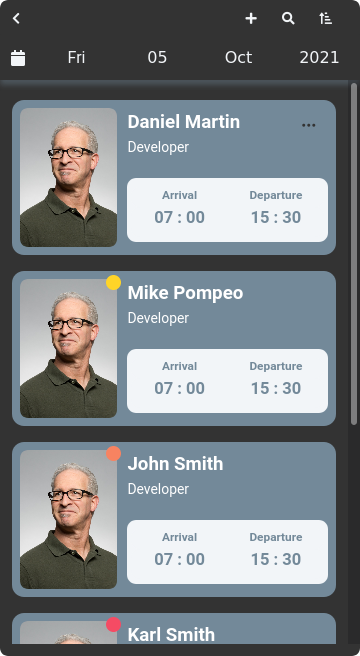
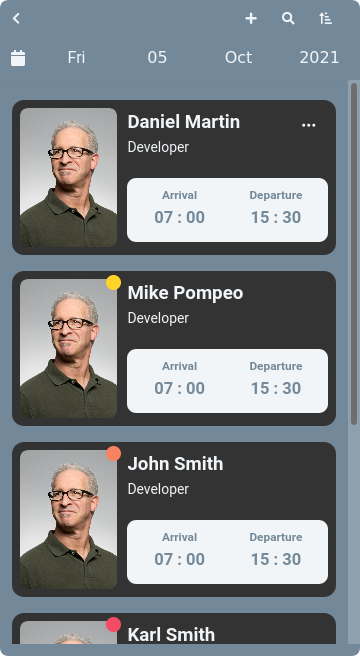
[ 👍 ] new screenshots added (invert themes)

diff --git a/README.md b/README.md
@@ -14,7 +14,7 @@ because i love ❤ opensource, did you like it?
 
 ### SCREENSHOTS
 
-<img src="./screenshots/screenshot-2.png" title="DARK THEME" alt="attendance - miko-github - 2021" width="150" height="270" /> <img src="./screenshots/screenshot-1.png" title="LIGHT/DEFAULT THEME" alt="attendance - mikoloism - 2021" width="150" height="270" /> <img src="./screenshots/screenshot-3.png" title="VARIANT THEME" alt="attendance - mikoloism - 2021" width="150" height="270" />
+<img src="./screenshots/screenshot-3.png" title="DARK THEME" alt="attendance - miko-github - 2021" width="150" height="270" /> <img src="./screenshots/screenshot-2.png" title="DARK_INVERT THEME" alt="attendance - mikoloism - 2021" width="150" height="270" /> <img src="./screenshots/screenshot-1.png" title="LIGHT/DEFAULT THEME" alt="attendance - mikoloism - 2021" width="150" height="270" /> <img src="./screenshots/screenshot-4.png" title="VIOLET THEME" alt="attendance - mikoloism - 2021" width="150" height="270" /> <img src="./screenshots/screenshot-5.png" title="VIOLET_INVERTT THEME" alt="attendance - mikoloism - 2021" width="150" height="270" />
 
 ### LICENSE and MORE
 
